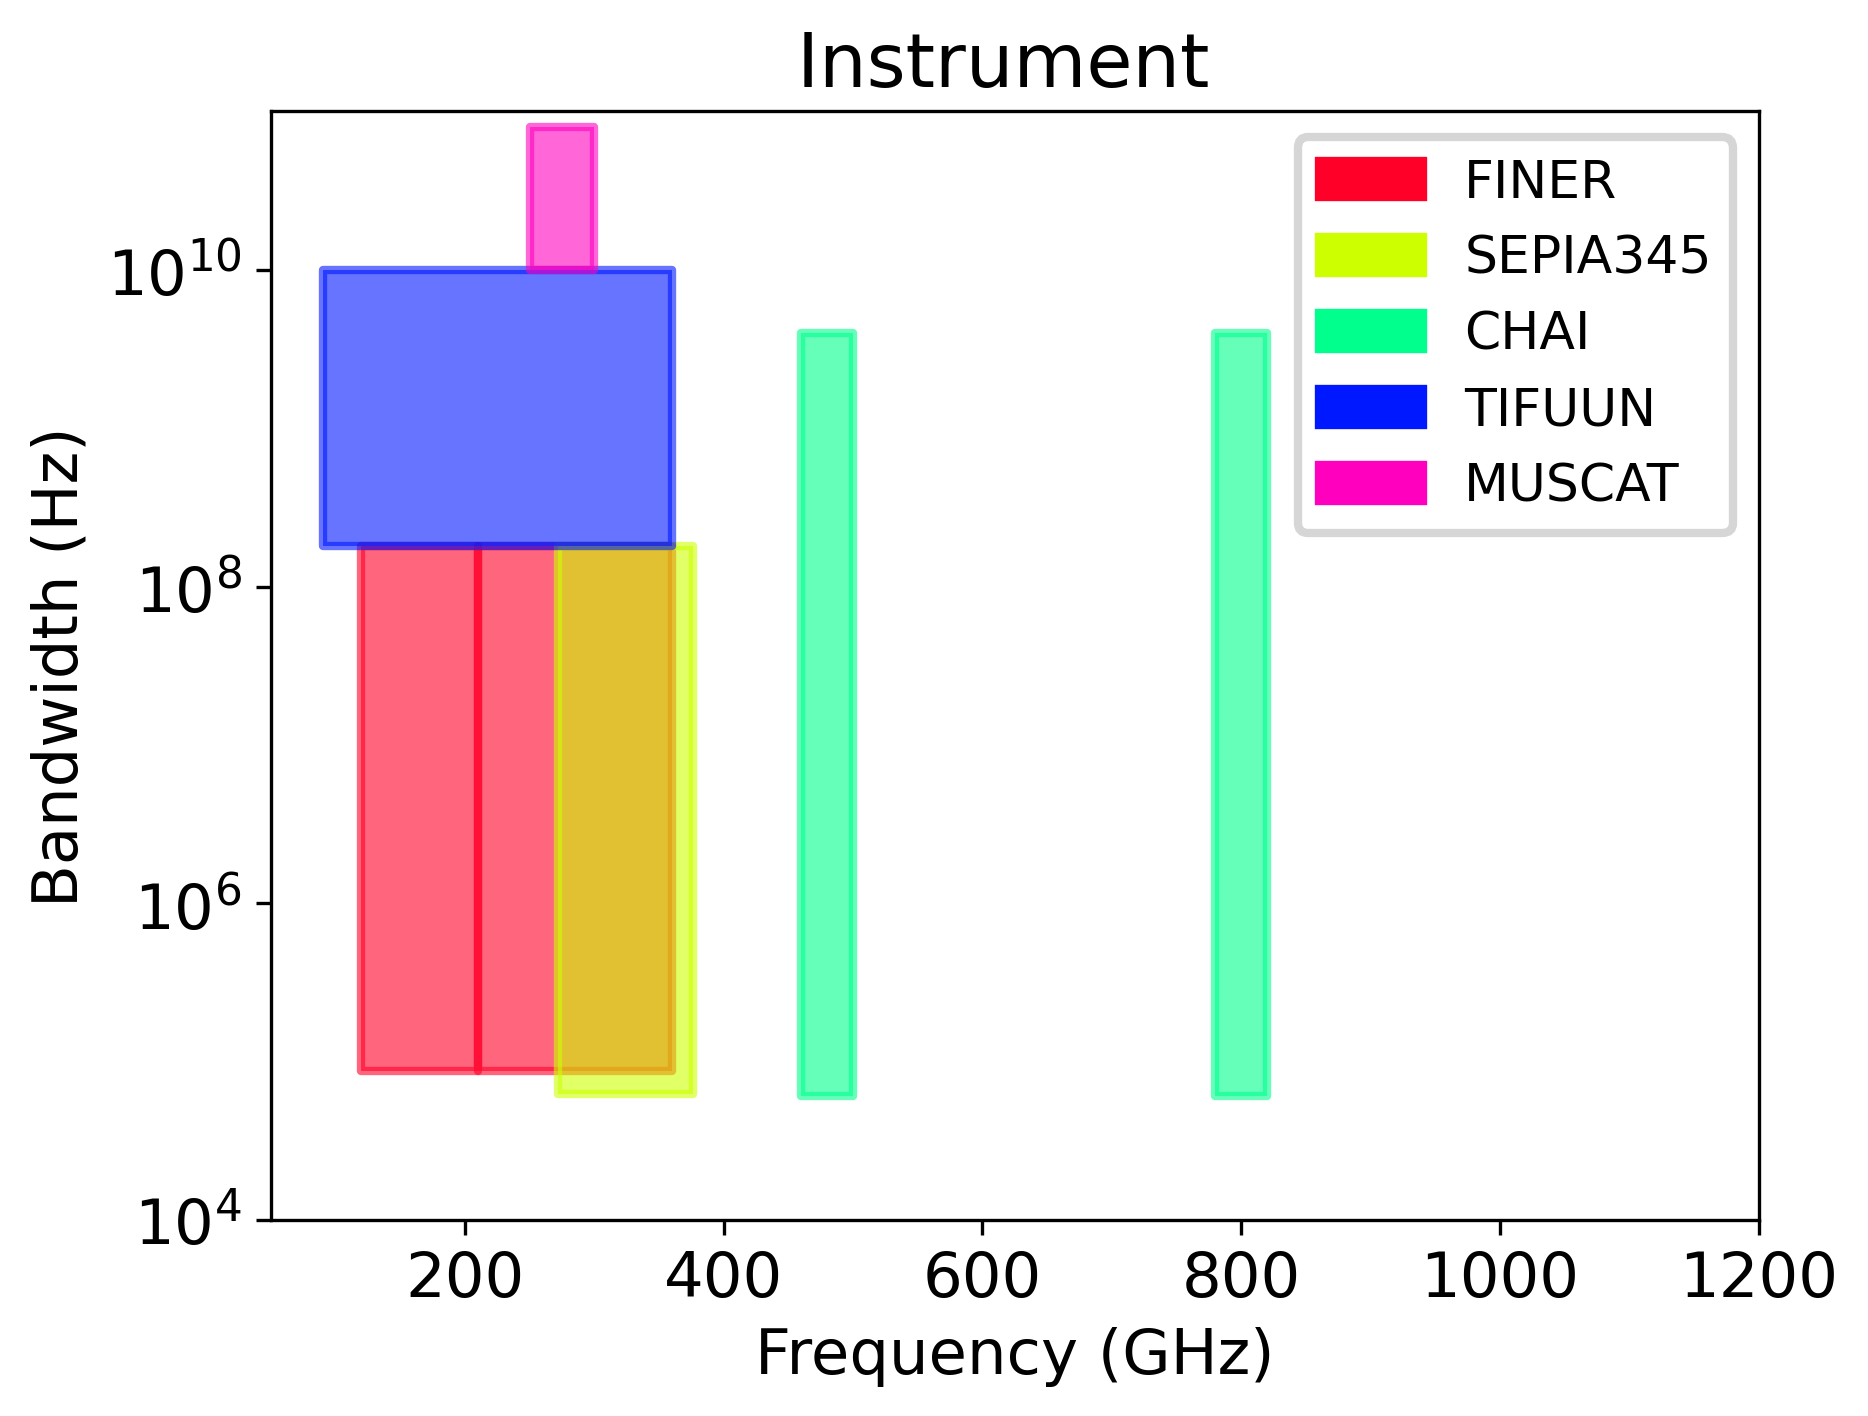
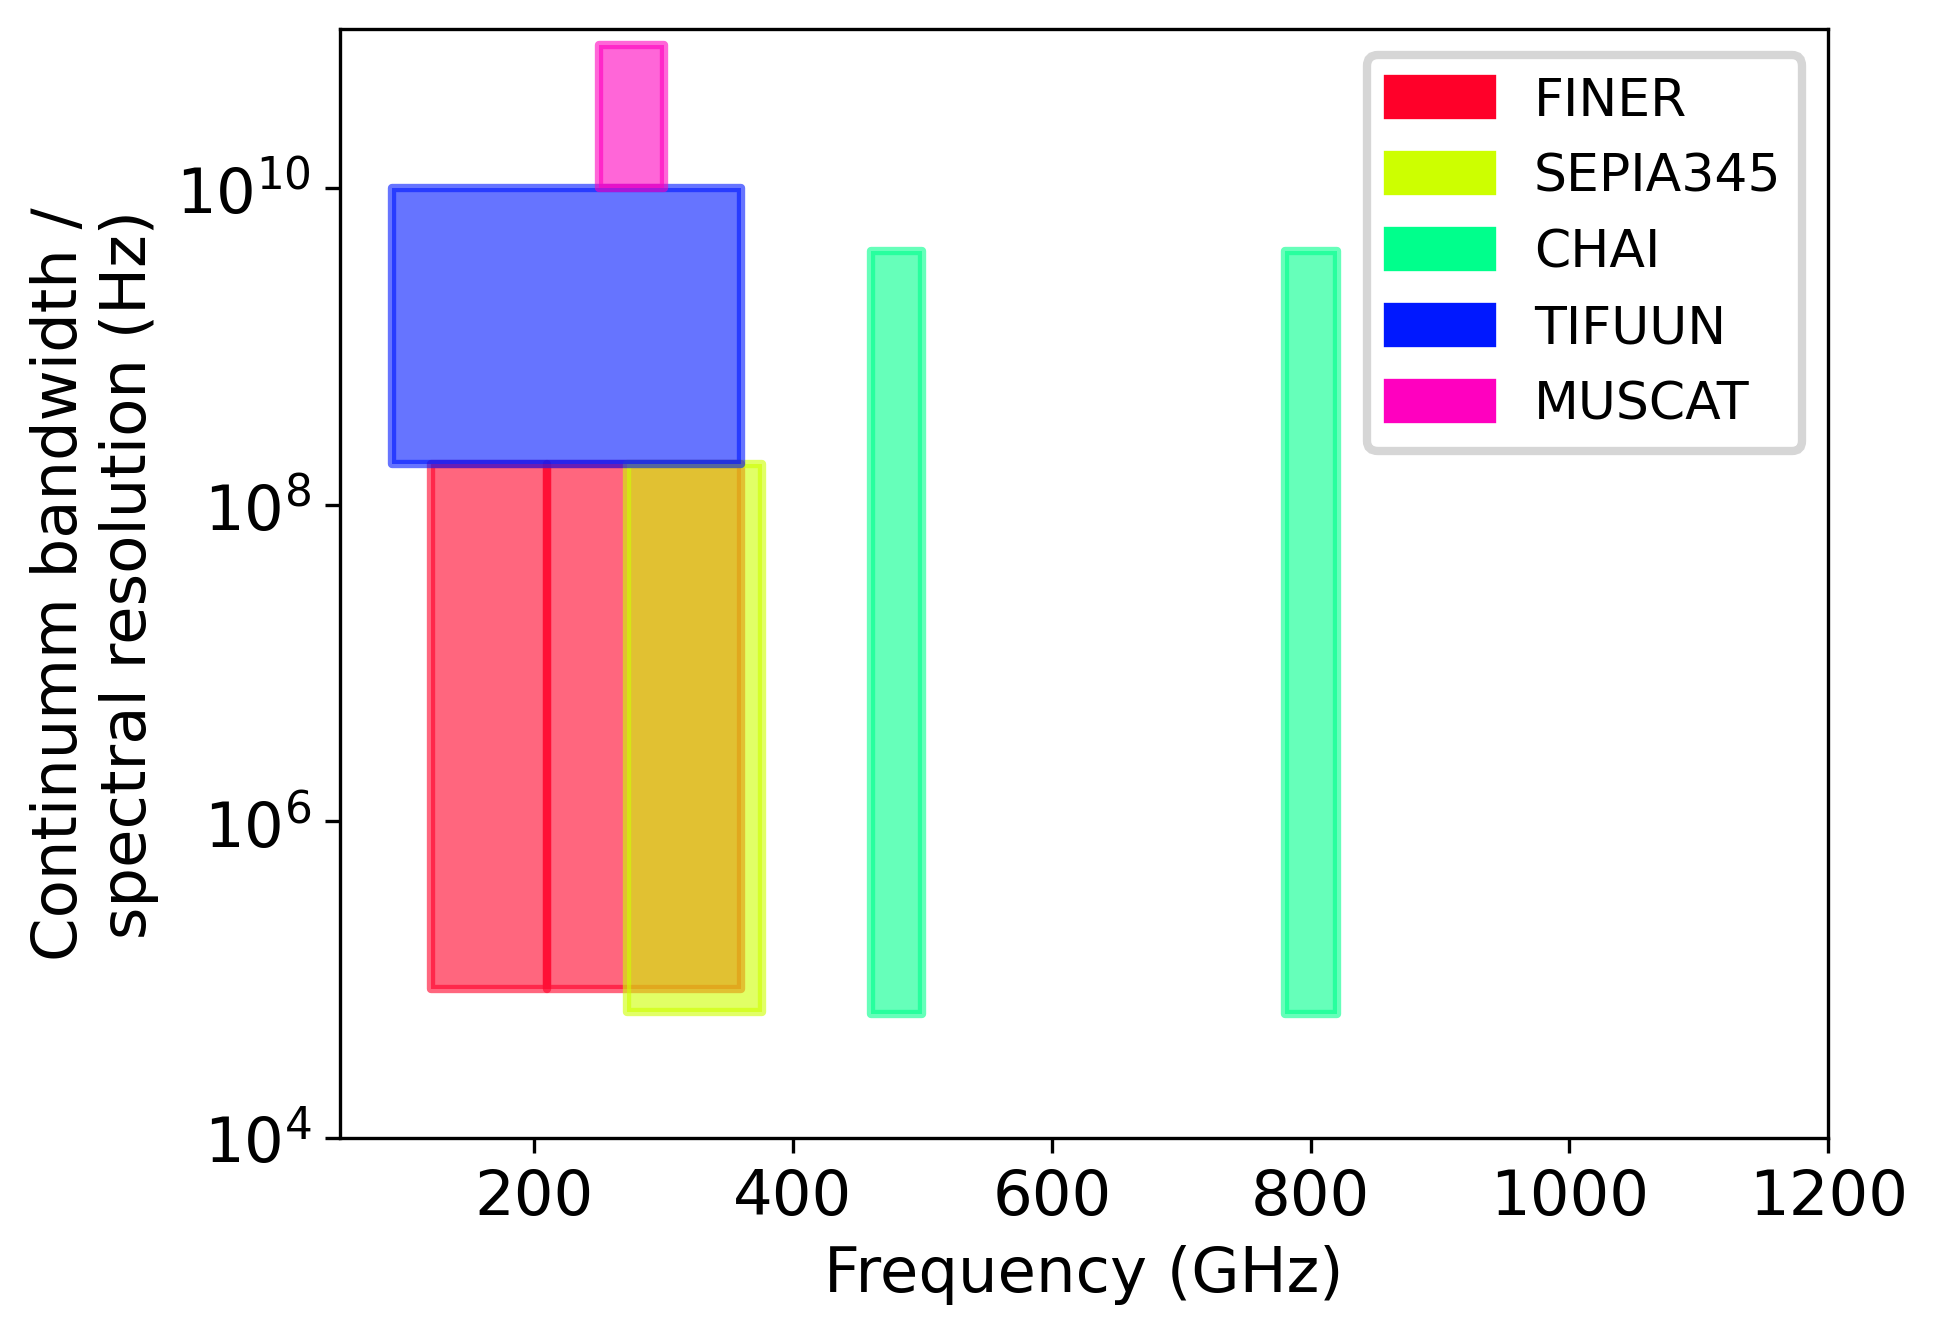
Return default tsys

Changed region(s): [[0.0, 0.0, 0.9936, 0.9835]]

diff --git a/docs/source/calculator_info/sensitivity.rst b/docs/source/calculator_info/sensitivity.rst
@@ -34,9 +34,39 @@ where
 * :math:`A_{g}` is the geometric dish area
 * :math:`T_{sys}` is the system temperature
 
-The system temperature is dependent on sky transmittance and includes terms from both the telescope and selected receiver/instrument. The system temperature is calculated differently depending on which instrument is selected for the calculation. These equations are described in the following pages:
+The system temperature is calculated differently depending on which instrument is selected for the calculation. For the parameter space in which there is no pre-defined instrument that can be used to calculate the telescope sensitivity, we default to the more generic representation of a coherent receiver with a specified receiver temperature. This setup is valid for all ranges of observing frequency and bandwidth, and from it, the system temperature is calculated as:
 
-* :doc:`Default heterodyne <default_tsys>`
+.. math::
+    T_{sys} = \frac{1}{\eta_{eff} \mathfrak{t}} \times [T_{rx} + (\eta_{eff} T_{sky}) + (1-\eta_{eff}) T_{amb}]
+
+where
+
+* :math:`\eta_{eff}` is the forward efficiency
+* :math:`\mathfrak{t}` is the atmospheric transmittance, defined as :math:`\mathfrak{t} = \textrm{exp}^{(-\tau_{atm})}`
+* :math:`T_{rx}` is the receiver temperature
+* :math:`T_{sky}` is the sky temperature
+* :math:`T_{amb}` is the ambient temperature
+
+The receiver temperature is the only instrument dependent component of the above equation, and we assume a reasonably efficient instrument near the quantum limit. Specifically:
+
+.. math::
+    T_{rx} = \frac{5h\nu}{k}
+
+where :math:`h` and :math:`k` are the Planck and Boltzmann constants (respectively), :math:`\nu` is the frequency of the observation, and the factor 5 is a conservative estimate of how close to the quantum limit receivers can get. The fundamental limit achievable when including mixer and Local oscillator terms is 3, but most receivers do not achieve that efficiency.
+
+The sky temperature is calculated as:
+
+.. math::
+    T_{sky} = (1-\mathfrak{t})\times T_{atm} + T_{cmb}
+
+where
+
+* :math:`T_{atm}` is the atmospheric temperature calculated from the model grid described in :doc:`Weather Calculations <weather>`
+* :math:`T_{cmb}` is the temperature of the cosmic microwave background.
+
+
+The sensitivity calculator includes instruments being built for other telescopes to demonstrate how real instruments will work with the telescope and the sensitivities achievable by them. The calculator automatically selects the instrument based on the requested observing frequency and channel bandwidth as described in `Instrument overview <instrument_overview>`. The system temperature equations for these instruments are described in the following pages:
+
 * :doc:`CHAI <chai_tsys>`
 * :doc:`FINER <finer_tsys>`
 * :doc:`MUSCAT <muscat_tsys>`

diff --git a/docs/source/calculator_info/instrument_overview.rst b/docs/source/calculator_info/instrument_overview.rst
@@ -14,13 +14,13 @@ To go beyond this, in order to approximate the future instrumentation available 
     "SEPIA", APEX, https://www.apex-telescope.org/ns/observing/the-telescope/instruments/sepia/sepia345/
     "TIFUUN", ASTE,
 
-Frequency and bandwidth ranges
-^^^^^^^^^^^^^^^^^^^^^^^^^^^^^^
+Observing frequency and channel bandwidth ranges
+^^^^^^^^^^^^^^^^^^^^^^^^^^^^^^^^^^^^^^^^^^^^^^^^
 
-Each instrument has a specified range of frequencies and bandwidths as shown in the table and plot below. The calculator will select the appropriate instrument based on the user input frequency and bandwidth, with the default heterodyne being selected for any regions of parameter space not covered by the following instruments. For cases where two or more instruments overlap in parameter space, an arbitrary instrument will be selected. This can then be changed by the user as described in the :ref:`user guide <section_instrument_selection>`.
+Each instrument has a specified range of frequencies and bandwidths (note by bandwidth here we mean either the continuum bandwidth or the desired spectral resolution) as shown in the table and plot below. The calculator will select the appropriate instrument based on the user input frequency and bandwidth, with the default heterodyne being selected for any regions of parameter space not covered by the following instruments. For cases where two or more instruments overlap in parameter space, an arbitrary instrument will be selected. This can then be changed by the user as described in the :ref:`user guide <section_instrument_selection>`.
 
 .. csv-table::
-    :header: "Name", "Freq_min (GHz)", "Freq_max (GHz)", "Band_min (Hz)", "Band_max (Hz)"
+    :header: "Name", "Minimum frequency (GHz)", "Maximum frequency (GHz)", "Minimum continuum bandwidth / spectral resolution (Hz)", "Maximum continuum bandwidth / spectral resolution (Hz)"
 
     "FINER", 120, 210, 8.80E+04, 1.80E+08
     "FINER", 210, 360, 8.80E+04, 1.80E+08
@@ -42,7 +42,6 @@ More information on the instruments and a detailed explanation of the equations 
 .. toctree::
     :maxdepth: 2
     
-    default_tsys
     chai_tsys
     finer_tsys
     muscat_tsys